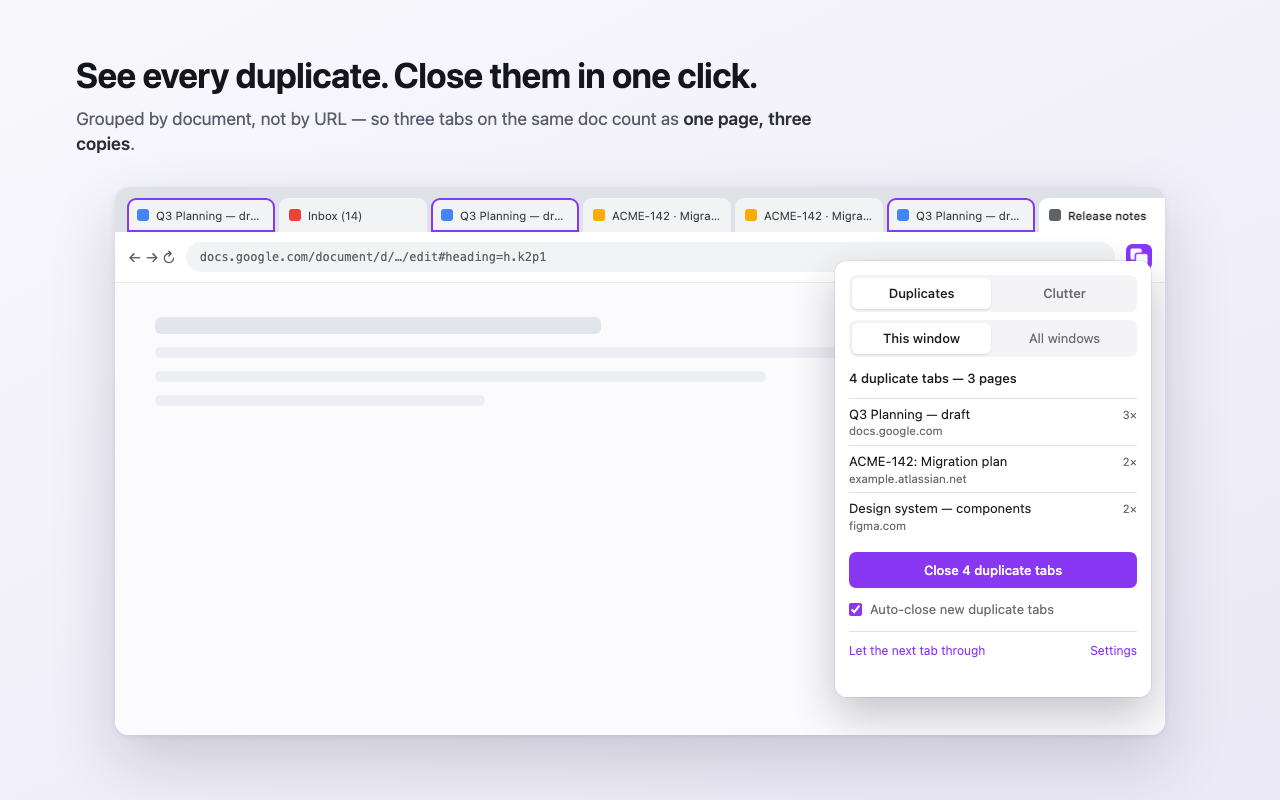
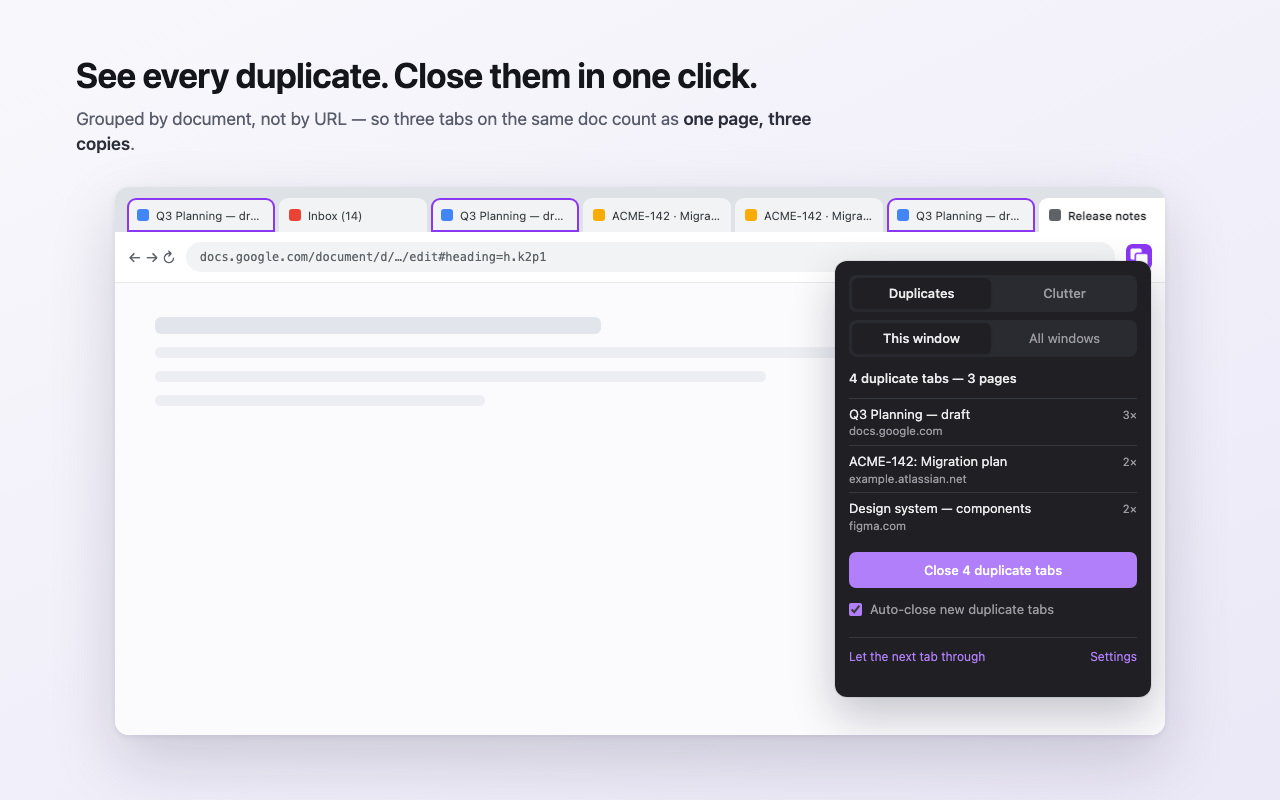
fix: the clutter review proposed 97 tabs and gave no way to inspect them
Reported from a real 500-tab browser: "97 tabs you're probably done with",
every row pre-ticked, six visible, and no way to look at any of them.

Two scoring bugs made the flood.

Age could reach the threshold on its own — idle capped at 3, threshold 3 — so
every tab untouched for eight hours qualified on age alone. Age is now capped at
2, below the threshold, and a tab is proposed only if at least one signal other
than age says you're finished with it: never viewed, discarded by Chrome, or
matching one of your phrases. Old on its own just means old.

The same-site pile signal fired at any size, so "106 tabs open on
docs.google.com" added a point to all 106. A pile is now 4 to 12 tabs — past
that it isn't a research pile, it's a site you live in, and the count says
nothing about any single tab.

And the interaction was wrong regardless of the scoring. Rows are now opt-in
rather than pre-ticked, with an explicit "Select all N"; the button reads
"Select tabs to close" until you choose something. Every title is a button that
switches to that tab so you can look before deciding — closing a tab you can't
inspect is a guess. The list shows 12 instead of 6 and says "showing 12 of N".

Three regression tests name the exact failure: age alone proposes nothing, 106
old tabs on one host propose nothing, and a pile counts at 6 but not at 60.
Version 1.3.0.

Changed region(s): [[0.625, 0.3125, 0.9062, 0.875]]

diff --git a/popup.js b/popup.js
@@ -1,6 +1,7 @@
 import { getSettings, setSettings } from './lib/settings.js';
 
-const MAX_ROWS = 6;
+/** Duplicates group by page so the list is short; clutter is per tab, so show more. */
+const MAX_ROWS = { duplicates: 6, clutter: 12 };
 
 const summary = document.getElementById('summary');
 const list = document.getElementById('list');
@@ -9,6 +10,7 @@ const autoBox = document.getElementById('autoDedupe');
 const autoRow = document.getElementById('autoRow');
 const hint = document.getElementById('hint');
 const undoBtn = document.getElementById('undo');
+const selectAllBtn = document.getElementById('selectAll');
 
 // The popup belongs to the browser window it was opened from, so this is the
 // window the "this window" scope means.
@@ -17,8 +19,11 @@ const settings = await getSettings();
 
 let allWindows = Boolean(settings.sweepAllWindows);
 let view = 'duplicates';
-/** Clutter rows the user has unticked — kept so a re-render doesn't re-tick them. */
-let excluded = new Set();
+/**
+ * Clutter is opt-in, not opt-out. Nothing is ticked until you tick it — a
+ * proposal you can't read through is not something to pre-approve.
+ */
+let selected = new Set();
 let clutter = [];
 
 autoBox.checked = Boolean(settings.autoDedupe);
@@ -50,7 +55,7 @@ function renderDuplicates(report) {
   hint.textContent = '';
 
   list.replaceChildren();
-  for (const group of report.groups.slice(0, MAX_ROWS)) {
+  for (const group of report.groups.slice(0, MAX_ROWS.duplicates)) {
     const li = document.createElement('li');
     li.append(titleCell(group.title, group.host));
     const count = document.createElement('span');
@@ -59,43 +64,64 @@ function renderDuplicates(report) {
     li.append(count);
     list.append(li);
   }
-  appendOverflow(report.groups.length);
+  appendOverflow(report.groups.length, MAX_ROWS.duplicates);
 }
 
 // --- clutter view -----------------------------------------------------------
 
+function syncClutterButton() {
+  const n = selected.size;
+  sweepBtn.disabled = n === 0;
+  sweepBtn.textContent = n ? `Close ${plural(n, 'tab')}` : 'Select tabs to close';
+  selectAllBtn.hidden = clutter.length === 0;
+  selectAllBtn.textContent =
+    n === clutter.length && n > 0 ? 'Clear' : `Select all ${clutter.length}`;
+}
+
 function renderClutter(report) {
   clutter = report.suggestions;
-  const n = clutter.filter((s) => !excluded.has(s.id)).length;
+  // Drop selections for tabs that are no longer in the proposal.
+  const live = new Set(clutter.map((s) => s.id));
+  selected = new Set([...selected].filter((id) => live.has(id)));
 
+  const shown = Math.min(clutter.length, MAX_ROWS.clutter);
   summary.textContent = clutter.length
     ? `${plural(clutter.length, 'tab')} you're probably done with`
     : `Nothing stale in ${plural(report.scanned, 'tab')}.`;
-  hint.textContent = clutter.length ? 'Untick anything you want to keep.' : '';
-
-  sweepBtn.disabled = n === 0;
-  sweepBtn.textContent = n ? `Close ${plural(n, 'tab')}` : 'Nothing selected';
+  hint.textContent = clutter.length
+    ? `Click a title to go look at it. Showing ${shown} of ${clutter.length}.`
+    : '';
 
   list.replaceChildren();
-  for (const item of clutter.slice(0, MAX_ROWS)) {
+  for (const item of clutter.slice(0, MAX_ROWS.clutter)) {
     const li = document.createElement('li');
 
     const box = document.createElement('input');
     box.type = 'checkbox';
     box.className = 'pick';
-    box.checked = !excluded.has(item.id);
+    box.checked = selected.has(item.id);
     box.addEventListener('change', () => {
-      if (box.checked) excluded.delete(item.id);
-      else excluded.add(item.id);
-      const left = clutter.filter((s) => !excluded.has(s.id)).length;
-      sweepBtn.disabled = left === 0;
-      sweepBtn.textContent = left ? `Close ${plural(left, 'tab')}` : 'Nothing selected';
+      if (box.checked) selected.add(item.id);
+      else selected.delete(item.id);
+      syncClutterButton();
     });
 
-    li.append(box, titleCell(item.title, item.reasons.join(' · ')));
+    // The title is a button, not text: closing a tab you can't inspect first is
+    // a guess. Clicking switches to it (and closes the popup, as Chrome does).
+    const jump = document.createElement('button');
+    jump.className = 'jump';
+    jump.append(titleCell(item.title, item.reasons.join(' · ')));
+    jump.title = 'Go to this tab';
+    jump.addEventListener('click', async () => {
+      await chrome.runtime.sendMessage({ type: 'focusTab', tabId: item.id });
+      window.close();
+    });
+
+    li.append(box, jump);
     list.append(li);
   }
-  appendOverflow(clutter.length);
+  appendOverflow(clutter.length, MAX_ROWS.clutter);
+  syncClutterButton();
 }
 
 // --- shared -----------------------------------------------------------------
@@ -103,7 +129,10 @@ function renderClutter(report) {
 function titleCell(text, sub) {
   const title = document.createElement('span');
   title.className = 'title';
-  title.textContent = text;
+  const main = document.createElement('span');
+  main.className = 'titleText';
+  main.textContent = text;
+  title.append(main);
   title.title = text;
   if (sub) {
     const host = document.createElement('span');
@@ -114,12 +143,12 @@ function titleCell(text, sub) {
   return title;
 }
 
-function appendOverflow(total) {
-  const hidden = total - MAX_ROWS;
+function appendOverflow(total, max) {
+  const hidden = total - max;
   if (hidden <= 0) return;
   const li = document.createElement('li');
   li.className = 'more';
-  li.textContent = `+${hidden} more`;
+  li.textContent = `+${hidden} more — close these, then reopen to see the rest`;
   list.append(li);
 }
 
@@ -129,6 +158,7 @@ async function refresh() {
   if (!undoBtn.hidden) undoBtn.textContent = `Undo (${lastClose.count})`;
 
   autoRow.hidden = view === 'clutter';
+  selectAllBtn.hidden = view !== 'clutter';
   if (view === 'duplicates') renderDuplicates(await ask('report'));
   else renderClutter(await ask('clutter'));
 }
@@ -153,6 +183,13 @@ for (const btn of document.querySelectorAll('[data-scope]')) {
 }
 setPressed('[data-scope]', 'scope', allWindows ? 'all' : 'window');
 
+selectAllBtn.addEventListener('click', () => {
+  if (selected.size === clutter.length) selected.clear();
+  else selected = new Set(clutter.map((s) => s.id));
+  for (const box of list.querySelectorAll('.pick')) box.checked = selected.size > 0;
+  syncClutterButton();
+});
+
 sweepBtn.addEventListener('click', async () => {
   sweepBtn.disabled = true;
   let closed = 0;
@@ -161,10 +198,9 @@ sweepBtn.addEventListener('click', async () => {
     const res = await ask('sweep');
     closed = res && res.count ? res.count : 0;
   } else {
-    const ids = clutter.filter((s) => !excluded.has(s.id)).map((s) => s.id);
-    const res = await ask('closeIds', { ids, what: 'clutter review' });
+    const res = await ask('closeIds', { ids: [...selected], what: 'clutter review' });
     closed = res && res.count ? res.count : 0;
-    excluded = new Set();
+    selected = new Set();
   }
 
   summary.textContent = closed ? `Closed ${plural(closed, 'tab')}.` : 'Nothing closed.';

diff --git a/lib/staleness.js b/lib/staleness.js
@@ -21,10 +21,26 @@ export const STALENESS_DEFAULTS = {
   disposablePatterns: [],
   /** Patterns that must never be suggested. */
   protectPatterns: [],
-  /** A site with at least this many open tabs looks like a research pile. */
+  /**
+   * A site with this many open tabs looks like a research pile — but only up to
+   * pileMax. Past that it's not a pile, it's a site you live in (a docs home, a
+   * mail client), and "106 tabs open here" says nothing about any one of them.
+   */
   pileSize: 4,
+  pileMax: 12,
   matchThreshold: 0.7,
 };
+
+/**
+ * Age is capped BELOW the default threshold on purpose.
+ *
+ * If age alone could reach the threshold, every tab older than a few hours would
+ * be proposed — which for anyone with a real tab collection means hundreds of
+ * rows and a proposal nobody can review. Age is corroborating evidence, never a
+ * verdict: a tab is only ever proposed when something other than its age says
+ * you're finished with it.
+ */
+const MAX_AGE_POINTS = 2;
 
 const HOUR_MS = 3600 * 1000;
 
@@ -66,40 +82,44 @@ export function scoreTab(tab, intel, settings, now, context = {}) {
   }
 
   let score = 0;
+  // Evidence that you're done with this tab, as opposed to it merely being old.
+  let intent = 0;
 
   const hours = idleHours(tab, now);
   if (hours >= s.idleAfterHours) {
-    // 1 point per doubling of the idle threshold, capped — a tab idle 3 days
-    // shouldn't outrank every other signal on its own.
-    const steps = Math.min(3, 1 + Math.floor(Math.log2(hours / s.idleAfterHours)));
+    // 1 point per doubling of the idle threshold, capped.
+    const steps = Math.min(MAX_AGE_POINTS, 1 + Math.floor(Math.log2(hours / s.idleAfterHours)));
     score += steps;
     reasons.push(hours >= 24 ? `untouched for ${Math.round(hours / 24)}d` : `idle ${Math.round(hours)}h`);
   }
 
   if (intel && intel.activations === 0) {
     score += 2;
+    intent += 1;
     reasons.push('opened but never looked at');
   }
 
   if (tab.discarded) {
     score += 1;
+    intent += 1;
     reasons.push('already unloaded by Chrome');
   }
 
   const disposable = bestMatch(s.disposablePatterns, textOf(tab));
   if (disposable.score >= s.matchThreshold) {
     score += 2;
+    intent += 1;
     reasons.push(`matches "${disposable.pattern}"`);
   }
 
   const host = hostOf(tab.url);
   const pile = (context.hostCounts && context.hostCounts.get(host)) || 0;
-  if (pile >= s.pileSize) {
+  if (pile >= s.pileSize && pile <= s.pileMax) {
     score += 1;
     reasons.push(`${pile} tabs open on ${host}`);
   }
 
-  return { score, reasons, protectedBy: null };
+  return { score, reasons, protectedBy: null, intent };
 }
 
 /**
@@ -122,6 +142,9 @@ export function suggestClosures(tabs, intelById, settings, now) {
     const intel = intelById ? intelById.get(tab.id) : null;
     const result = scoreTab(tab, intel, s, now, { hostCounts });
     if (result.protectedBy || result.score < s.threshold) continue;
+    // Age is never a verdict on its own. Without a signal that you're actually
+    // finished with this tab, being old just means being old.
+    if (!result.intent) continue;
     scored.push({
       id: tab.id,
       windowId: tab.windowId,

diff --git a/background.js b/background.js
@@ -606,6 +606,20 @@ chrome.runtime.onMessage.addListener((msg, _sender, respond) => {
     closeWithUndo(msg.ids || [], msg.what || 'close selected').then((count) => respond({ count }));
     return true;
   }
+  if (msg.type === 'focusTab') {
+    // Let the user go look at a proposed tab before deciding to close it.
+    (async () => {
+      const tab = await getTabSafe(msg.tabId);
+      if (!tab) return respond({ ok: false });
+      await chrome.tabs.update(tab.id, { active: true });
+      await chrome.windows.update(tab.windowId, { focused: true });
+      respond({ ok: true });
+    })().catch((e) => {
+      console.warn(`${LOG} focusTab failed: ${e.message}`);
+      respond({ ok: false });
+    });
+    return true;
+  }
   if (msg.type === 'undo') {
     undoLastClose().then((restored) => respond({ restored }));
     return true;

diff --git a/popup.css b/popup.css
@@ -147,10 +147,35 @@ button.primary:disabled {
   margin-top: 12px;
 }
 
+.hintRow {
+  display: flex;
+  align-items: baseline;
+  justify-content: space-between;
+  gap: 10px;
+}
+
 .hint {
   margin: 6px 0 0;
   font-size: 12px;
   color: var(--muted);
+}
+
+/* Clutter rows are clickable: the title opens that tab so you can look first. */
+.list .jump {
+  flex: 1;
+  min-width: 0;
+  text-align: left;
+  background: none;
+  border: 0;
+  padding: 0;
+  font: inherit;
+  color: inherit;
+  cursor: pointer;
+}
+
+.list .jump:hover .titleText {
+  color: var(--accent);
+  text-decoration: underline;
 }
 
 .list .pick {

diff --git a/popup.html b/popup.html
@@ -25,7 +25,10 @@
         <input type="checkbox" id="autoDedupe" />
         Auto-close new duplicate tabs
       </label>
-      <p id="hint" class="hint"></p>
+      <div class="hintRow">
+        <p id="hint" class="hint"></p>
+        <button id="selectAll" class="link" hidden>Select all</button>
+      </div>
     </div>
 
     <div class="footer">

diff --git a/store-assets/demo-popup-inner.html b/store-assets/demo-popup-inner.html
@@ -25,6 +25,7 @@
     <button class="primary">Close 4 duplicate tabs</button>
     <div class="row">
       <label class="toggle"><input type="checkbox" checked /> Auto-close new duplicate tabs</label>
+      <div class="hintRow"><p class="hint"></p></div>
     </div>
     <div class="footer">
       <button class="link">Let the next tab through</button>

diff --git a/store-assets/build.py b/store-assets/build.py
@@ -223,6 +223,7 @@ def write_popup_inner():
     <button class="primary">Close 4 duplicate tabs</button>
     <div class="row">
       <label class="toggle"><input type="checkbox" checked /> Auto-close new duplicate tabs</label>
+      <div class="hintRow"><p class="hint"></p></div>
     </div>
     <div class="footer">
       <button class="link">Let the next tab through</button>
